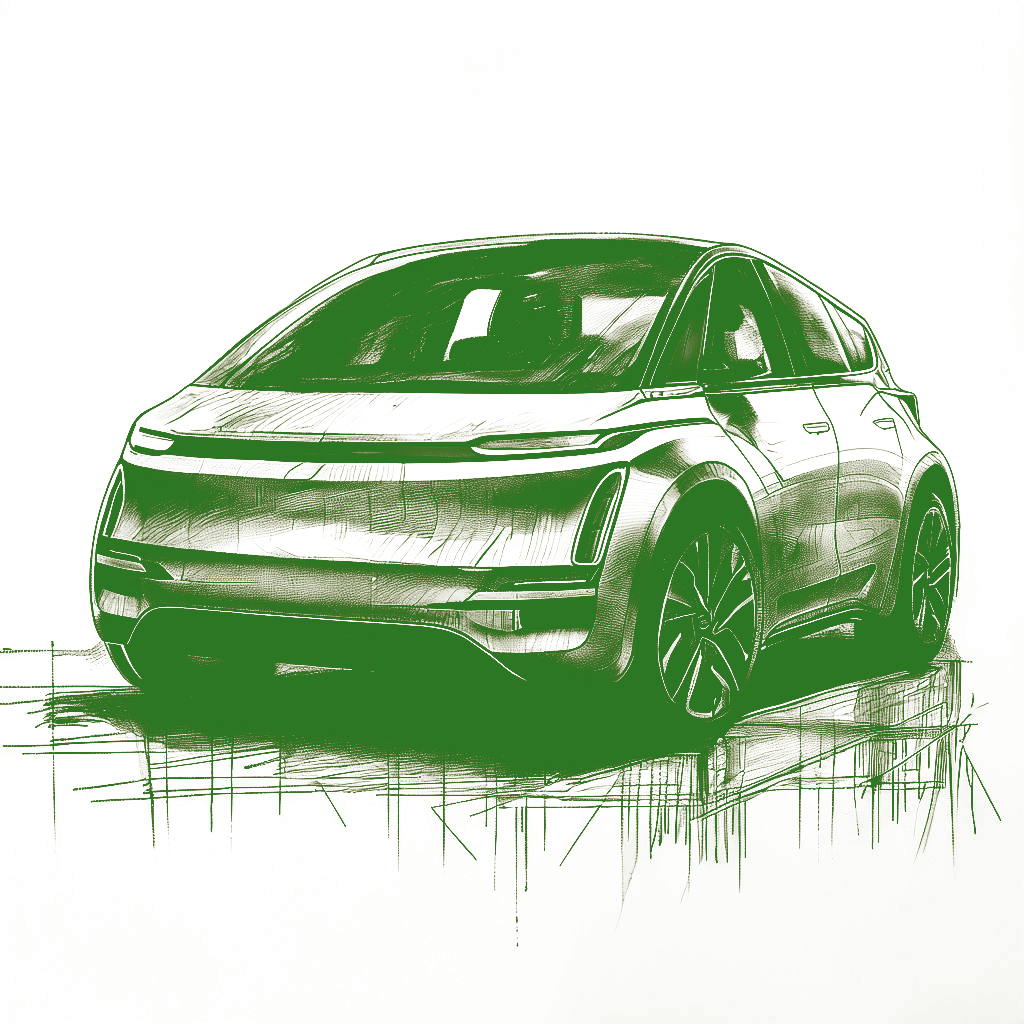
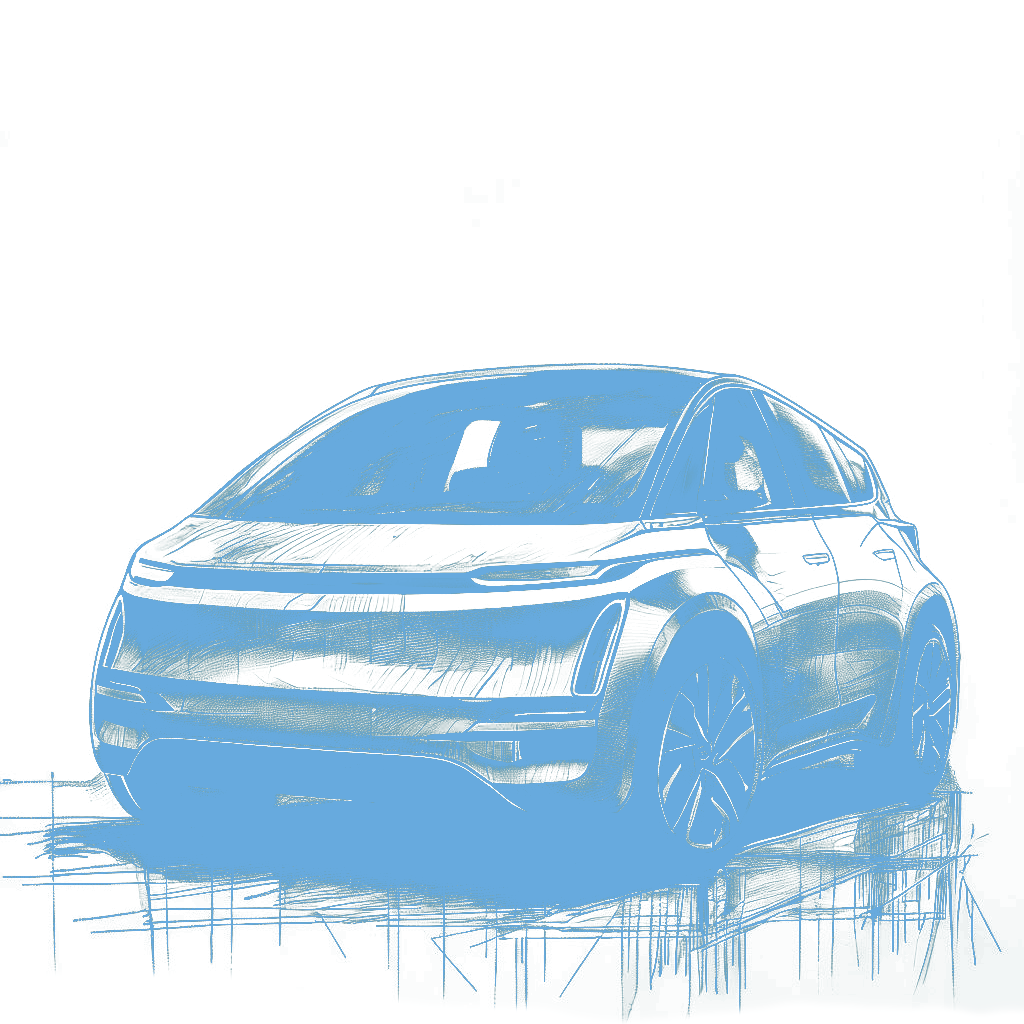
working on AR VR section

diff --git a/src/app/page.js b/src/app/page.js
@@ -2,17 +2,11 @@ import Image from 'next/image';
 
 export default function Home() {
   return (
-    <div className="bg-darkGrey  h-5000">
+    <div className="bg-darkGrey  h-[7000px]">
       {/* NAV BAR */}
       <nav className="flex sticky top-5 w-full">
         <div className="w-[15%] h-8 flex items-center ml-5 text-white">
-          <Image
-            src="/logo.png" // Put your logo in the public folder
-            alt="Logo"
-            width={150} // Adjust size as needed
-            height={150} // Adjust size as needed
-            // priority // If this is above the fold
-          />
+          <Image src="/logo.png" alt="Logo" width={150} height={150} />
         </div>
         <div className="w-[70%]  h-8 flex items-center justify-left">
           <div className="flex items-center justify-between">
@@ -60,7 +54,7 @@ export default function Home() {
       </nav>
       {/* LANDING IMAGES */}
       <div className="w-full h-[60vh] -mt-10 flex items-end justify-center">
-        <div className="h-[30vh] w-[50vw]  mb-10 flex items-end justify-center ">
+        <div className="h-[30vh] w-[50vw]  mb-10 flex items-end justify-center opacity-80 ">
           <Image
             src="/a-drawing-of-a-futuristic-building-(white).png"
             alt="building-L"
@@ -69,9 +63,10 @@ export default function Home() {
           />
           <Image
             src="/a-drawing-of-an-electric-vehicle-with-no-background-(green).png"
+            className="translate-y-10"
             alt="car"
-            width={300}
-            height={300}
+            width={200}
+            height={200}
           />
           <Image
             src="/a-drawing-of-a-futuristic-building-(whiteR).png"
@@ -116,11 +111,11 @@ export default function Home() {
             continues to advance, it has the potential to revolutionize
             industries and transform our daily lives.
           </p>
-          <div className=" flex  mt-24 mr-24 justify-center ">
+          <div className=" flex  mt-24 mr-24 justify-center opacity-70 ">
             <Image
               src="/an-ink-drawing-of-an-artificial-intelligence STAR.png"
               alt="star-L"
-              class="w-auto h-32 mt-[150px]"
+              class="w-auto h-32 mt-[150px] rotate-180"
               width={100}
               height={100}
             />
@@ -142,9 +137,96 @@ export default function Home() {
           </div>
         </div>
         <div className="  bg-red h-[100vh] w-[1px]"></div>
-        <div className="w-[50vw] h-[100vh] "></div>
+        <div className="w-[50vw] h-[100vh] p-style overflow-y-scroll scrollbar-hide  ml-auto">
+          <Image
+            src="/temp-graphics-01.png"
+            alt="star-R"
+            class="w-auto object-contain"
+            width={10000}
+            height={10000}
+          />
+        </div>
       </div>
-      <div className="bg-blue w-full h-[100vh]"></div>
+      <div className="bg-yellow w-full h-[2px]  "> </div>
+      <div className="bg-blue w-full h-[1px] mt-1 "> </div>
+
+      <div className=" w-full h-[2500px] ">
+        <div className=" w-full h-[150px] flex">
+          <p className="h3-style ml-8 mt-24 w-full  ">AR & VR</p>
+        </div>
+        <div className=" w-full h-[300px] flex">
+          <div className="w-[50vw] h-full ">
+            <p className="p-style ml-24 mr-24 mt-24">
+              <b> Augmented Reality (AR)</b> overlays digital information on the
+              real world, enhancing our perception of reality. AR applications
+              range from gaming and education to retail and industrial
+              applications.
+            </p>
+          </div>
+          <div className="w-[50vw] h-full ">
+            <p className="p-style ml-24 mr-24 mt-24">
+              <b>Virtual Reality (VR)</b> immerses users in a completely digital
+              environment. It requires specialized headsets that display a
+              360-degree view of the virtual world. VR is commonly used for
+              gaming, entertainment, training, and simulations.
+            </p>
+          </div>
+        </div>
+        <div className=" h-[1000px] flex">
+          <div className="  w-[60%] flex justify-center translate-x-[200px] translate-y-[100px] opacity-70">
+            <Image
+              src="/drawing-of-a-planet-with-no-background.png"
+              alt="planet-top-left"
+              class="w-auto h-[150px] translate-x-[100px]"
+              width={100}
+              height={100}
+            />
+
+            <Image
+              src="/an-ink-drawing-of-the-solar-system.png"
+              alt="solar-system"
+              class="w-auto h-[450px]"
+              width={200}
+              height={200}
+            />
+            <Image
+              src="/a-three-tone-drawing-of-a-woman-wearing-a-vr-headset-20164142.png"
+              alt="girl-VR"
+              class="w-auto h-[375px] -translate-x-[430px] -translate-y-[10px]"
+              width={300}
+              height={300}
+            />
+            <Image
+              src="/a-drawing-of-a-futuristic-spaceship- (1).png"
+              alt="spaceship-top-right"
+              class="w-auto h-[200px] rotate-180 -translate-x-[450px]"
+              width={100}
+              height={100}
+            />
+            <Image
+              src="/drawing-of-a-planet-with-no-background (1).png"
+              alt="planet-bottom-right"
+              class="w-auto h-32  -translate-x-[670px] translate-y-[270px]"
+              width={100}
+              height={100}
+            />
+          </div>
+          <div className="  w-[40%] mt-20">
+            <p className="h8-style w-[300px] mt-20">
+              AR market: Projected to reach $198 billion by 2028, according to
+              Grand View Research.
+            </p>
+            <p className="h8-style w-[300px] mt-20">
+              VR market: Estimated to grow at a CAGR of 44.1% from 2022 to 2030,
+              according to Allied Market Research.
+            </p>
+            <p className="h8-style w-[300px] mt-20">
+              AR/VR adoption: The gaming industry is the largest adopter of
+              AR/VR technologies, followed by healthcare and education.
+            </p>
+          </div>
+        </div>
+      </div>
     </div>
   );
 }

diff --git a/src/app/layout.js b/src/app/layout.js
@@ -1,27 +1,27 @@
-import localFont from "next/font/local";
-import "./globals.css";
+import localFont from 'next/font/local';
+import './globals.css';
 
 const geistSans = localFont({
-  src: "./fonts/GeistVF.woff",
-  variable: "--font-geist-sans",
-  weight: "100 900",
+  src: './fonts/GeistVF.woff',
+  variable: '--font-geist-sans',
+  weight: '100 900',
 });
 const geistMono = localFont({
-  src: "./fonts/GeistMonoVF.woff",
-  variable: "--font-geist-mono",
-  weight: "100 900",
+  src: './fonts/GeistMonoVF.woff',
+  variable: '--font-geist-mono',
+  weight: '100 900',
 });
 
 export const metadata = {
-  title: "Create Next App",
-  description: "Generated by create next app",
+  title: 'Create Next App',
+  description: 'Generated by create next app',
 };
 
 export default function RootLayout({ children }) {
   return (
     <html lang="en">
       <body
-        className={`${geistSans.variable} ${geistMono.variable} antialiased`}
+        className={`${geistSans.variable} ${geistMono.variable} antialiased scrollbar-hide`}
       >
         {children}
       </body>

diff --git a/tailwind.config.js b/tailwind.config.js
@@ -7,6 +7,13 @@ module.exports = {
   ],
   theme: {
     extend: {
+      scrollbar: {
+        hide: {
+          overflow: 'hidden',
+          '-ms-overflow-style': 'none' /* IE and Edge */,
+          'scrollbar-width': 'none' /* Firefox */,
+        },
+      },
       fontFamily: {
         inter: ['Inter', 'sans-serif'],
         italiana: ['Italiana', 'sans-serif'],

diff --git a/src/app/globals.css b/src/app/globals.css
@@ -29,6 +29,9 @@ body {
     text-wrap: balance;
   }
 }
+.scrollbar-hide::-webkit-scrollbar {
+  display: none;
+}
 
 @layer base {
   .h1-style {
